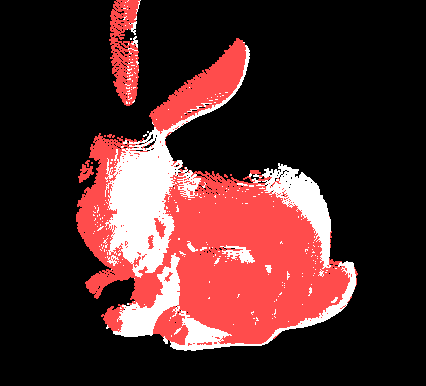
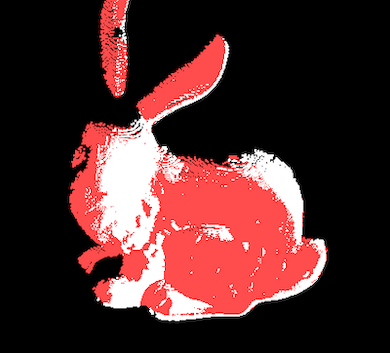
Complete Readme.

diff --git a/README.md b/README.md
@@ -112,10 +112,15 @@ Why?
 
 ### Bloopers
 
-When I try to align bunnies which are flipped by 180 degrees, ICP converges to an incorrect alignment as illustrated below.
+When I try to align bunnies which are facing opposite of each other, ICP converges to an incorrect alignment as illustrated below.
 
 <p align='center'>
 	<img src="data/transform_fail.gif" width=500>
 </p>
 
-The final alignment tends to be 
+
+Initial Alignment                    |  Final Alignment
+:-------------------------:|:-------------------------:
+![](data/transform_fail_init.PNG)| 		![](data/transform_fail_final.png)
+
+The final alignment tends to be flipped by 90 degrees. Though I am not completely sure why this is the case, I guess it's possible since ICP is not guaranteed to converge to a global minimum. Closest-point heuristic need not always give the correct alignment and if we after few iterations it's totally possible that the closes points don't change and we converge prematurely. 
